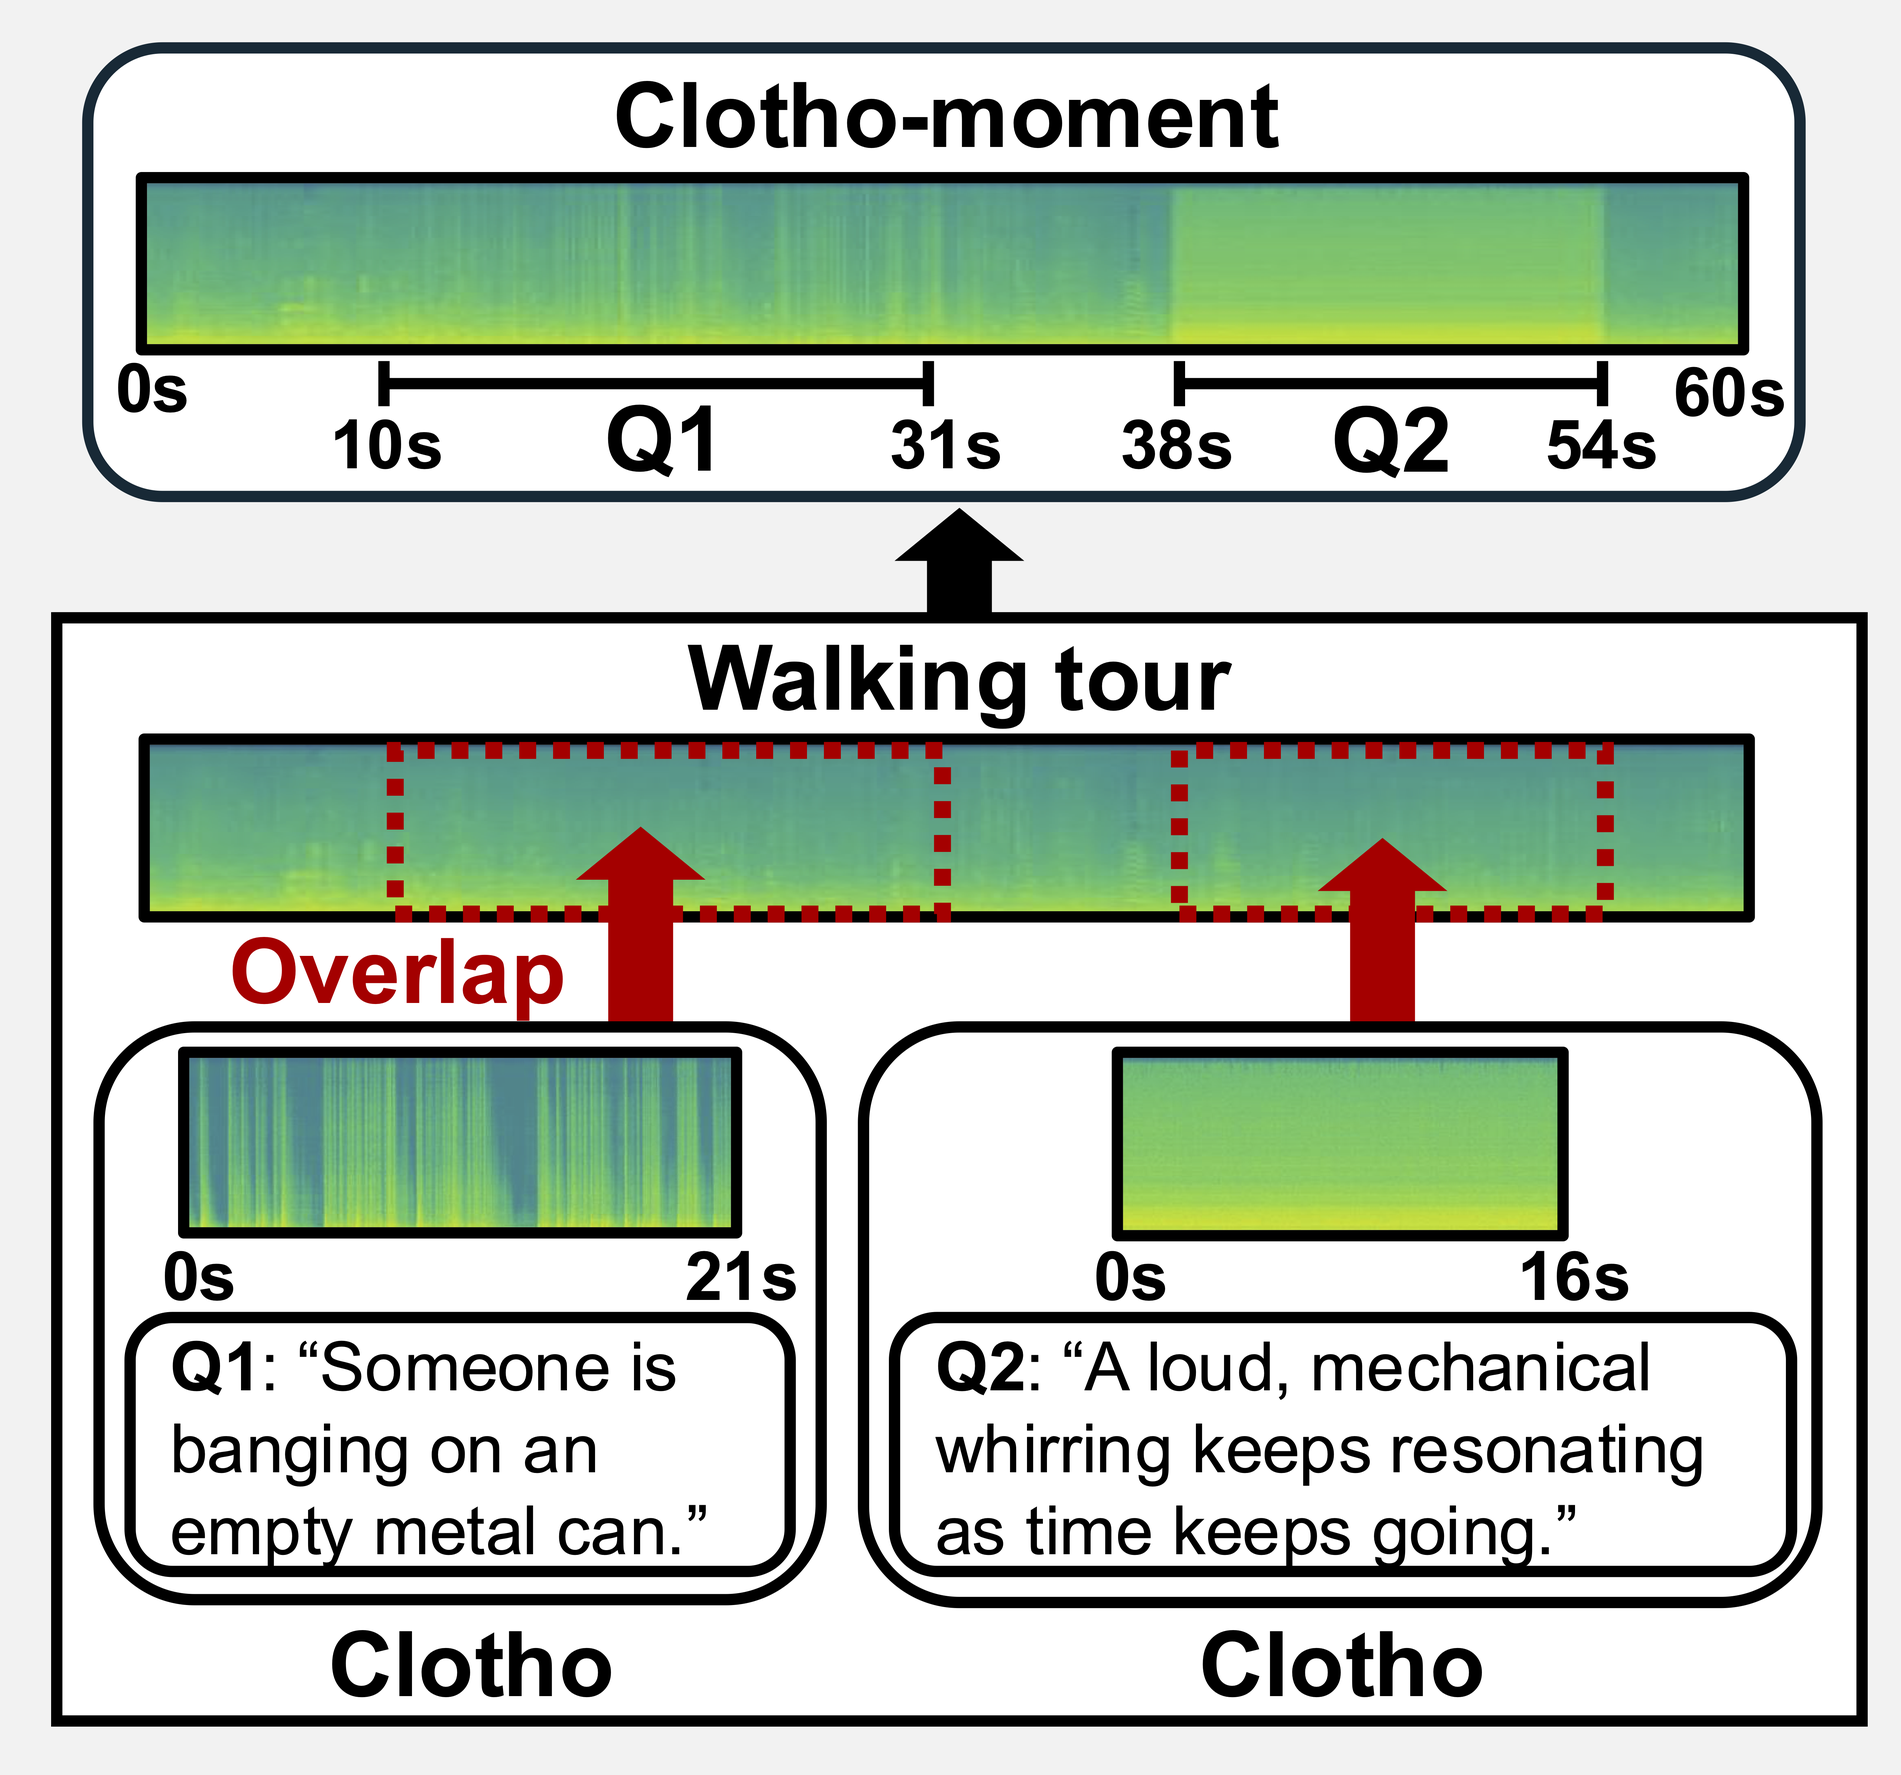
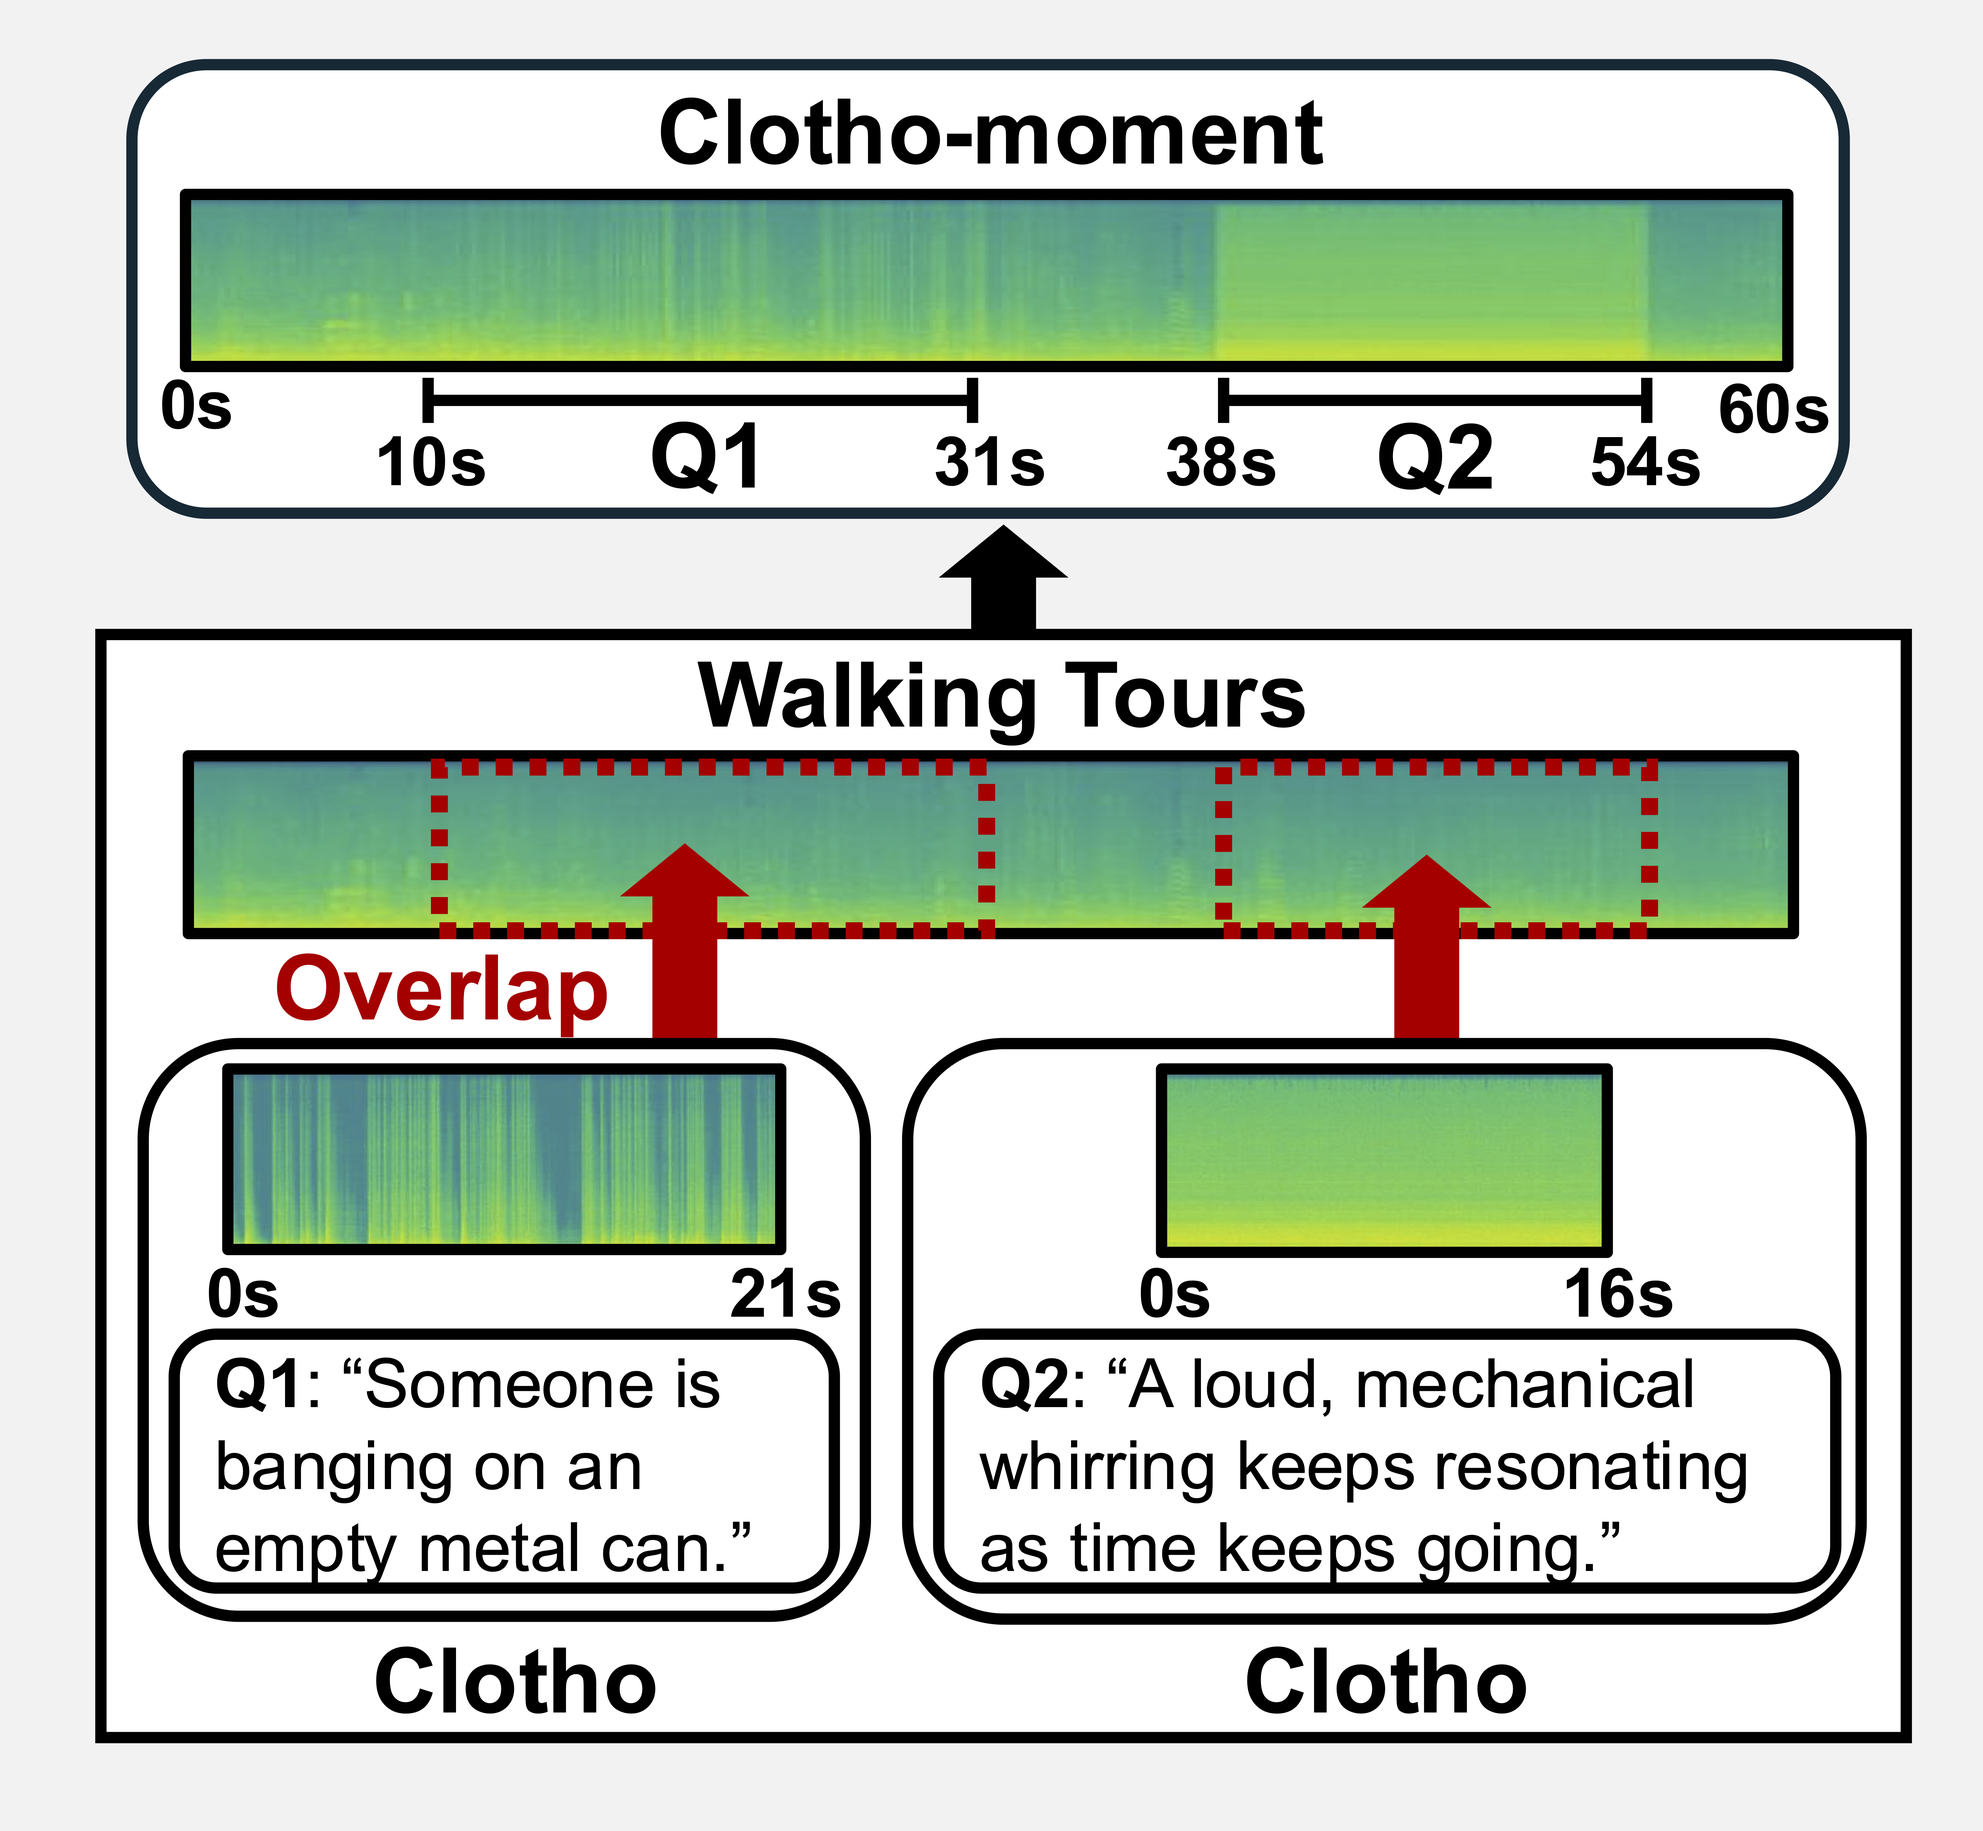
Fix typo

Changed region(s): [[0.0, 0.342, 0.9972, 0.995], [0.0312, 0.0, 0.966, 0.2799]]

diff --git a/index.html b/index.html
@@ -93,13 +93,13 @@
             We construct datasets to retrieve audio moments relevant to the text query from untrimmed audio data.
             The audio we assume for AMR is one minute long and includes some specific scenes that can be represented by text such as audio of a sports broadcast including a scene in which the goal is scored and people cheering.
             Based on these assumptions, we create a large-scale simulated AMR dataset named <b>Clotho-Moment</b>.
-            As shown in Figure 2, this dataset is generated with Clotho [1] and Walking tour [2] as foreground and background, respectively.
+            As shown in Figure 2, this dataset is generated with Clotho [1] and Walking Tours [2] as foreground and background, respectively.
         </p>
     </div>
     <div align="center">
         <img src="images/clotho-moment.png" width="30%">
         <figcaption>Fig. 2.
-            Clotho-Moment containing audio and text query-audio moment pairs is generated by overlaying Clotho on Walking Tour.
+            Clotho-Moment containing audio and text query-audio moment pairs is generated by overlaying Clotho on Walking Tours.
         </figcaption>
     </div>
     <br>
